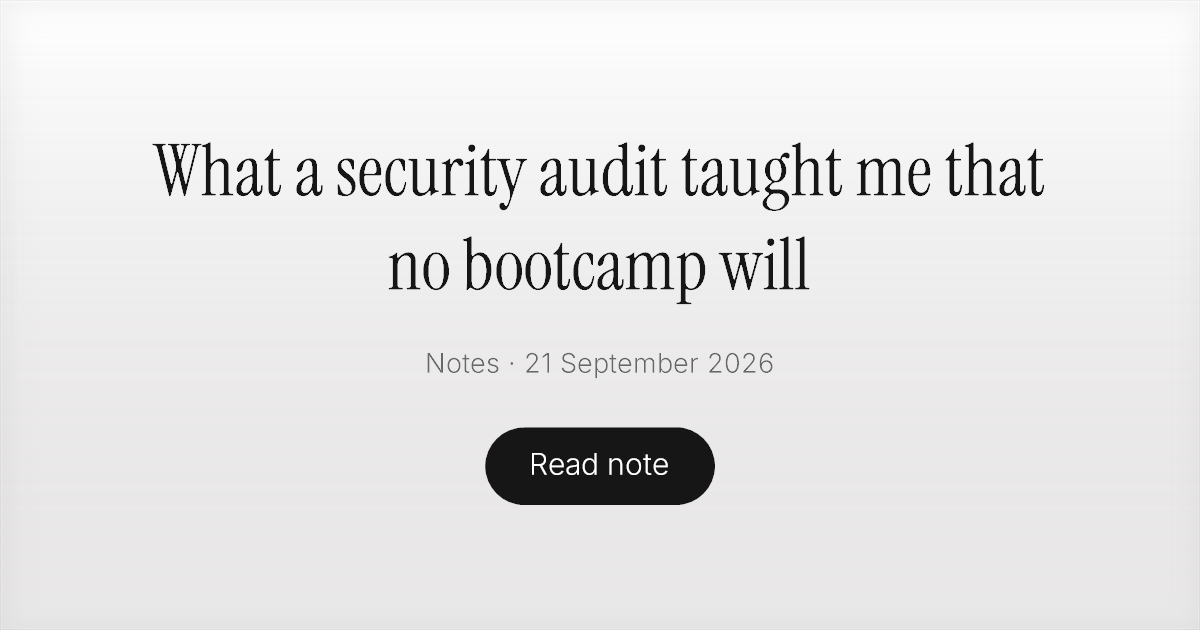
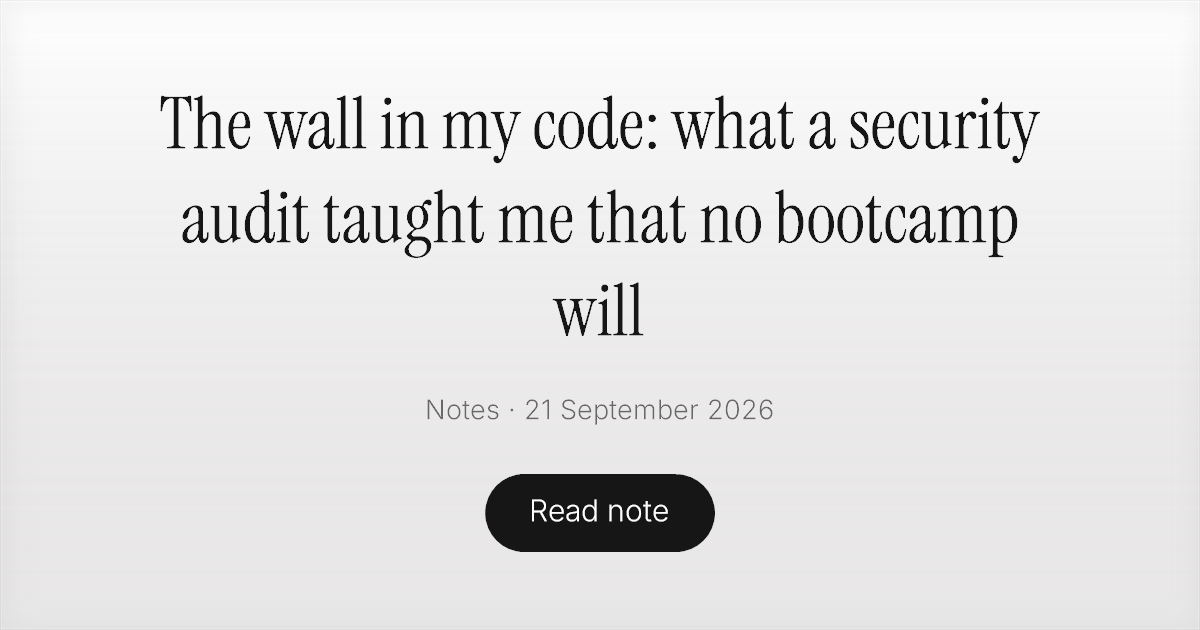
CONTENT: align security audit note title with the published article
Use the complete title from the article brief in the Notes registry and regenerate its OG card and cover while preserving the current September 21 publication date and shared article template.

🤖 Generated with Codebuff

Changed region(s): [[0.1233, 0.1508, 0.8633, 0.5429], [0.3392, 0.6333, 0.6475, 0.8746], [0.3392, 0.5429, 0.6475, 0.6032]]

diff --git a/lib/notes.ts b/lib/notes.ts
@@ -14,7 +14,7 @@ export interface Note {
 const raw: Note[] = [
   {
     slug: "what-a-security-audit-taught-me",
-    title: "What a security audit taught me that no bootcamp will",
+    title: "The wall in my code: what a security audit taught me that no bootcamp will",
     description:
       "I paid strangers to attack my payments engine. The race conditions, the ledger that lied to itself, and the deletion that would have erased every customer.",
     date: "2026-09-21",
